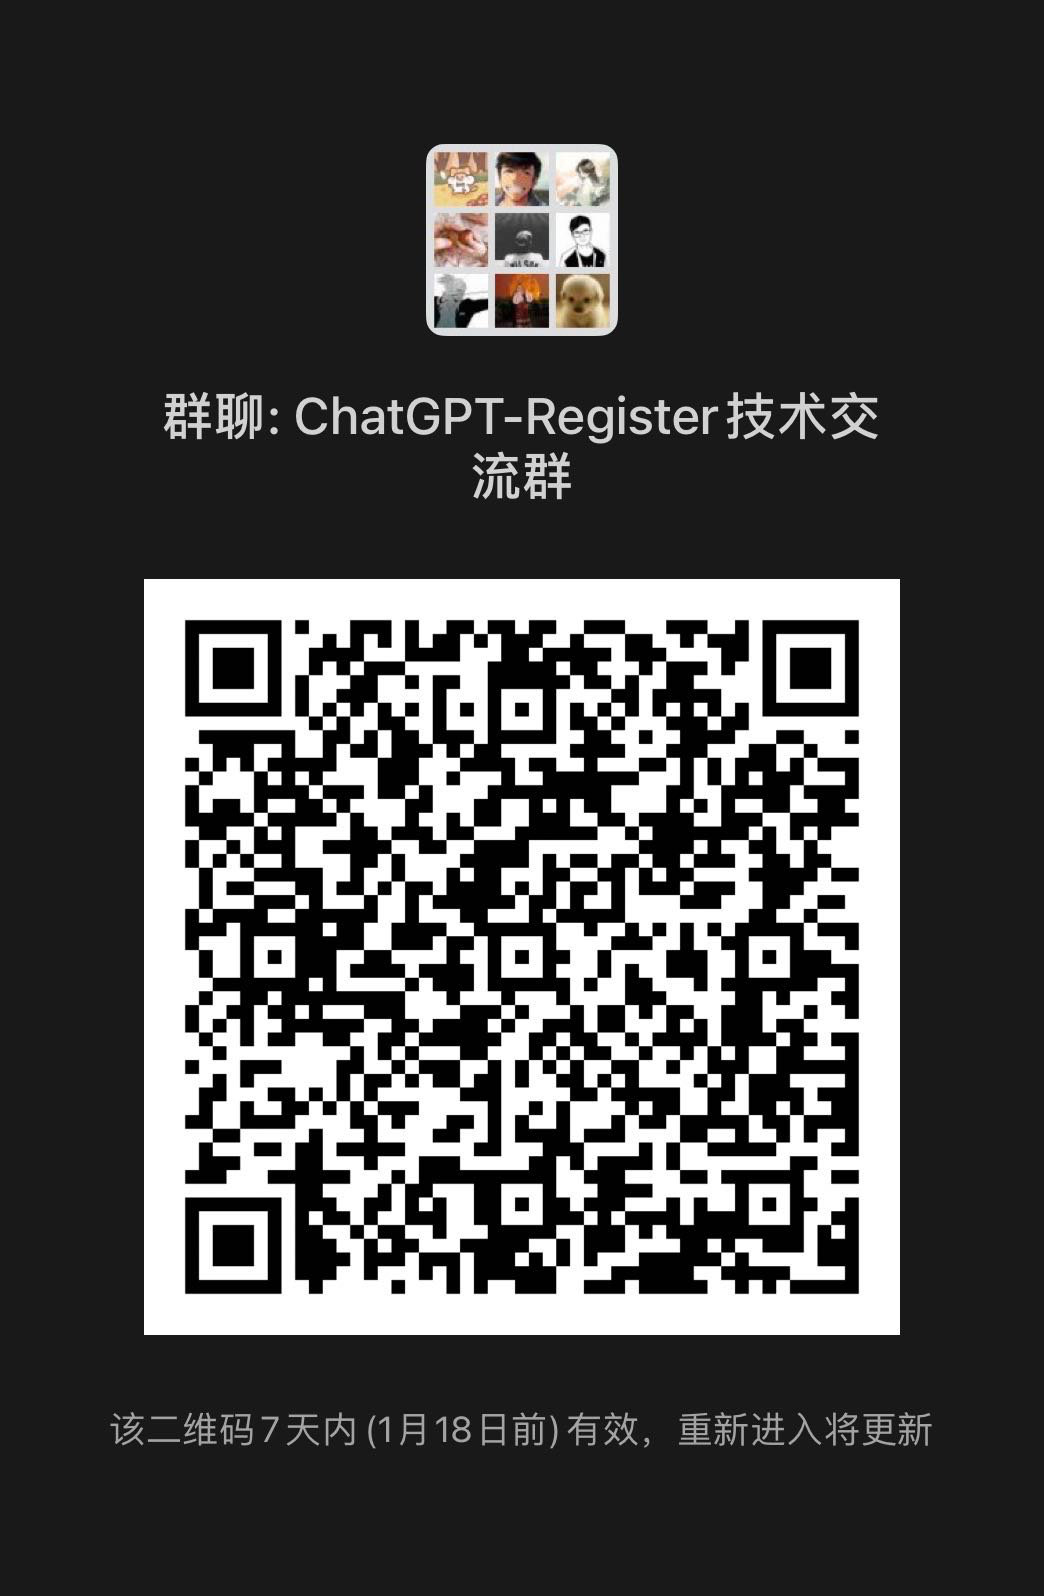
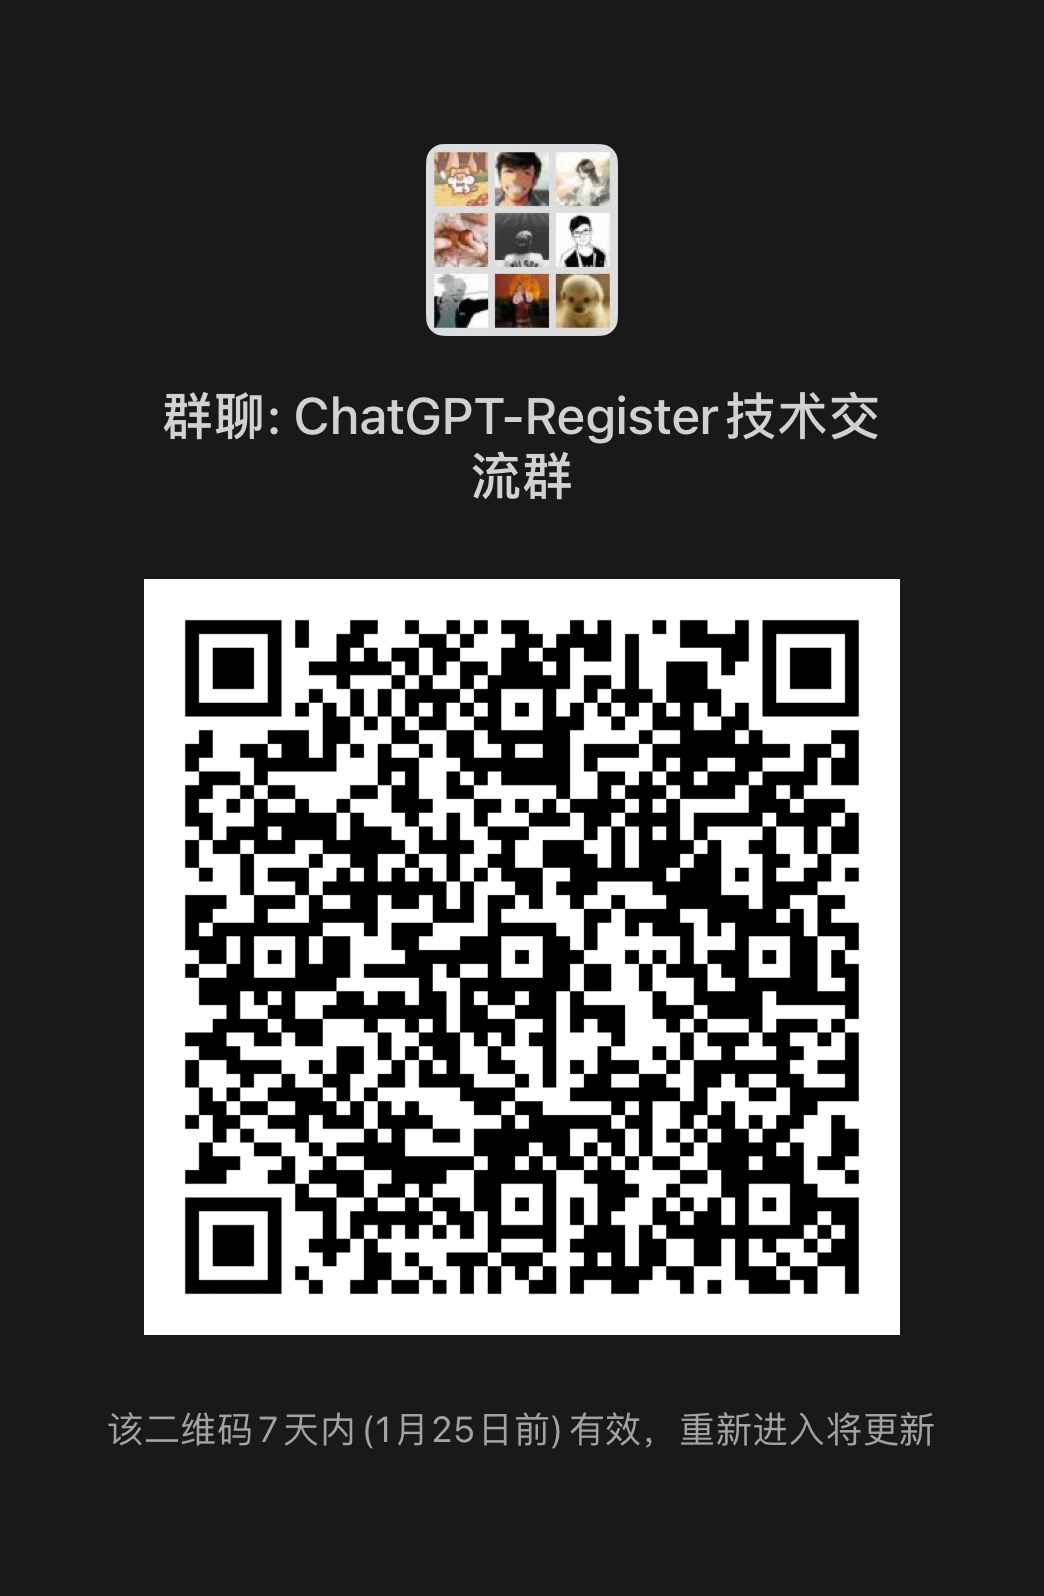
更新二维码；修改README.md

diff --git a/README.md b/README.md
@@ -8,7 +8,7 @@
 
 <br/>
 
-**ChatGPT-Register** 是一个自动化工具，**免代理**、**不封号**、**无限量**、**无人工干预**地注册 ChatGPT 账号。
+**ChatGPT-Register** 是一个自动化工具，**免代理**、**不封号**、~~**无限量**~~（受限于`PandoraNext`额度）、**无人工干预**地注册 ChatGPT 账号。
 
 同时可获取、刷新、维护各类**Token**（包括`sess key`）。一键刷新将过期的Token们！
 
@@ -53,9 +53,11 @@
 ### 方法二：使用Docker Compose
 1. 在项目根目录下运行：
    ```bash
+   touch account.db  # 创建数据库文件，防止映射失败
    docker compose up
    ```
     PS. 由于使用了 Selenium 来模拟请求，对主机配置有较高要求。如果报错，可以尝试延长程序中寻找元素的等待时间。
+    PPS. 由于docker会将不存在的文件默认映射为文件夹，因此需要在项目中先`touch accound.db`才可正常映射。
 
 2. （可选）要查看容器内部的情况，请访问容器内置的 `noVNC` 服务
    http://localhost:7900/?autoconnect=1&resize=scale&password=secret
